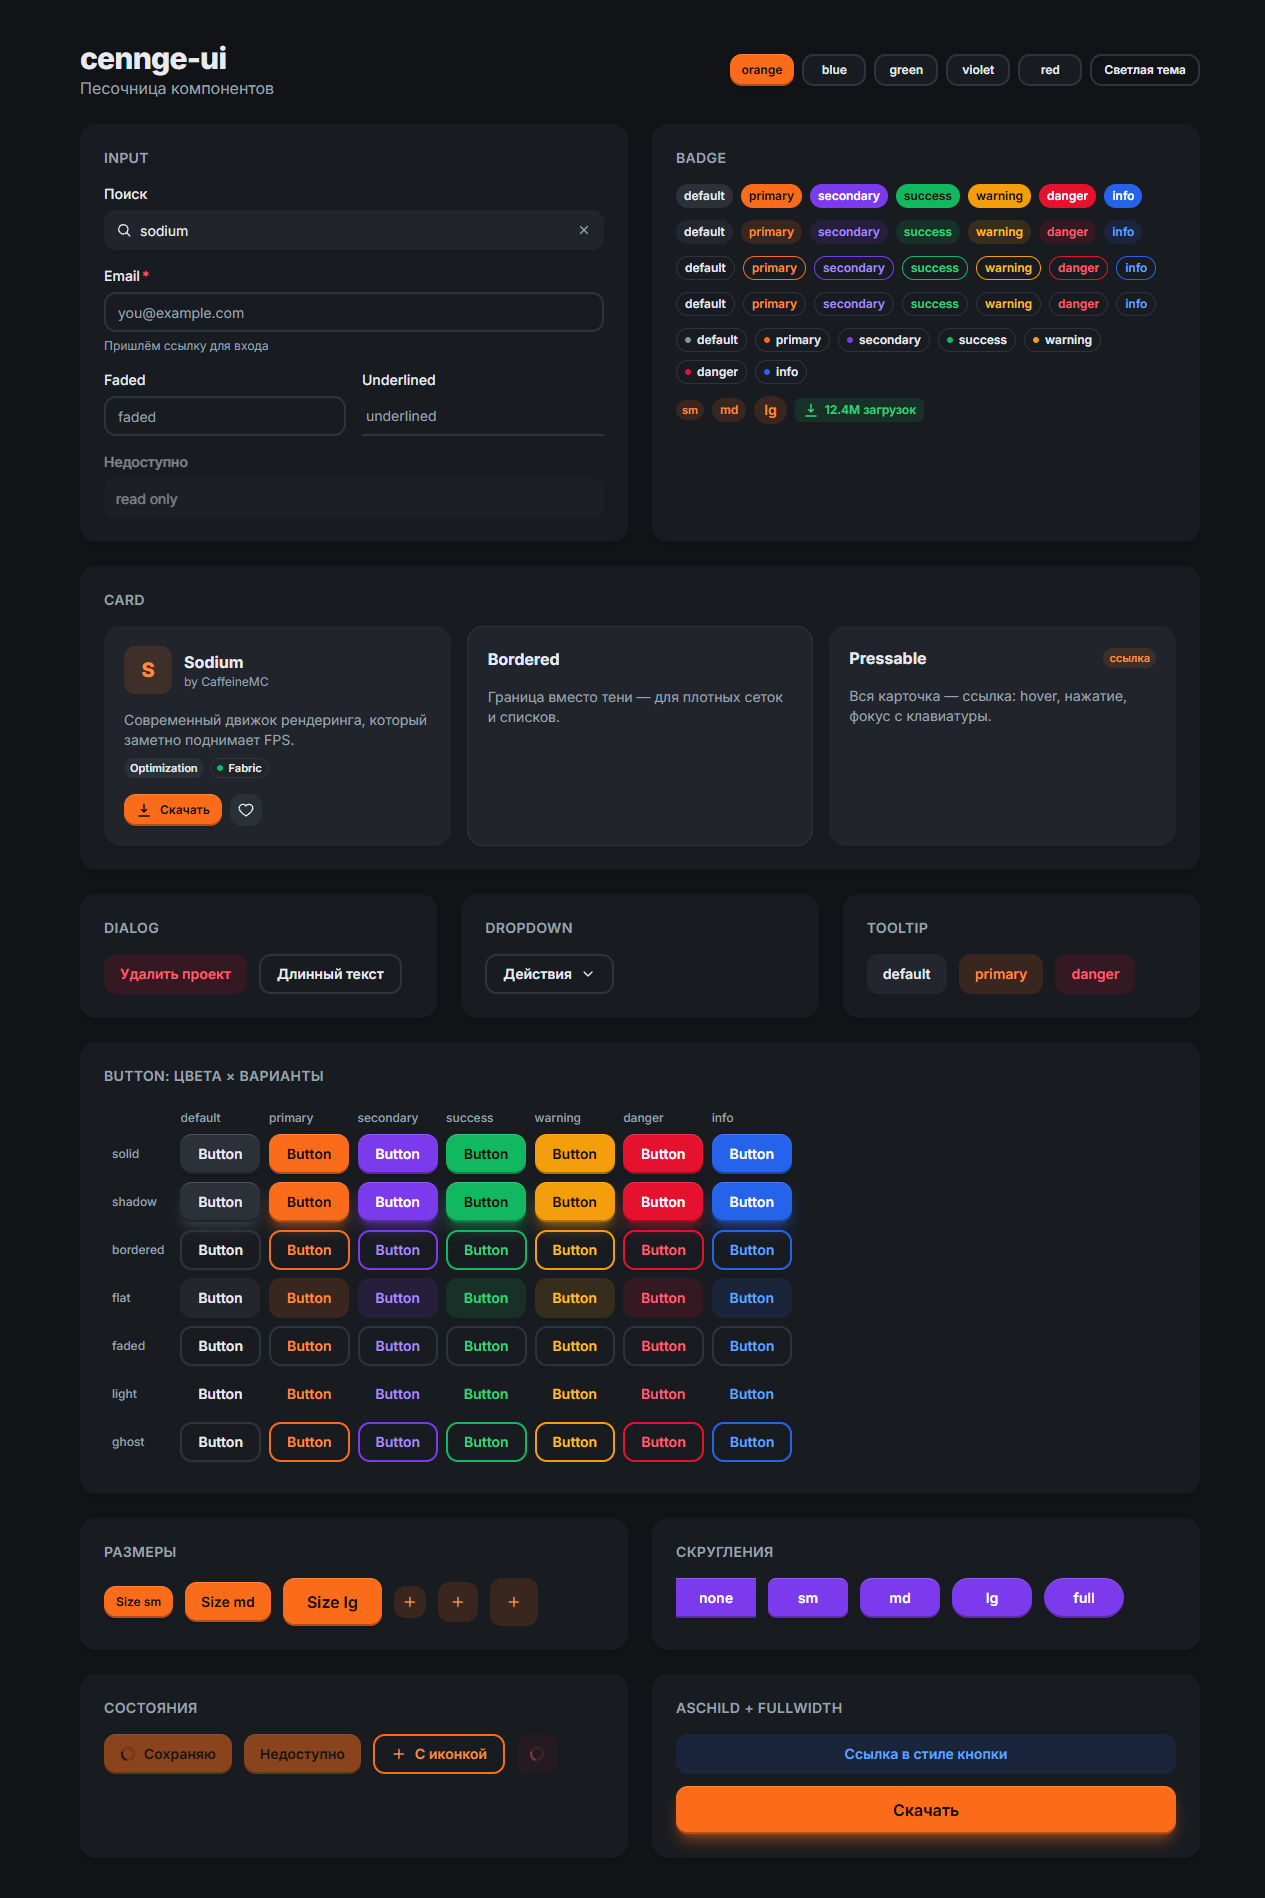
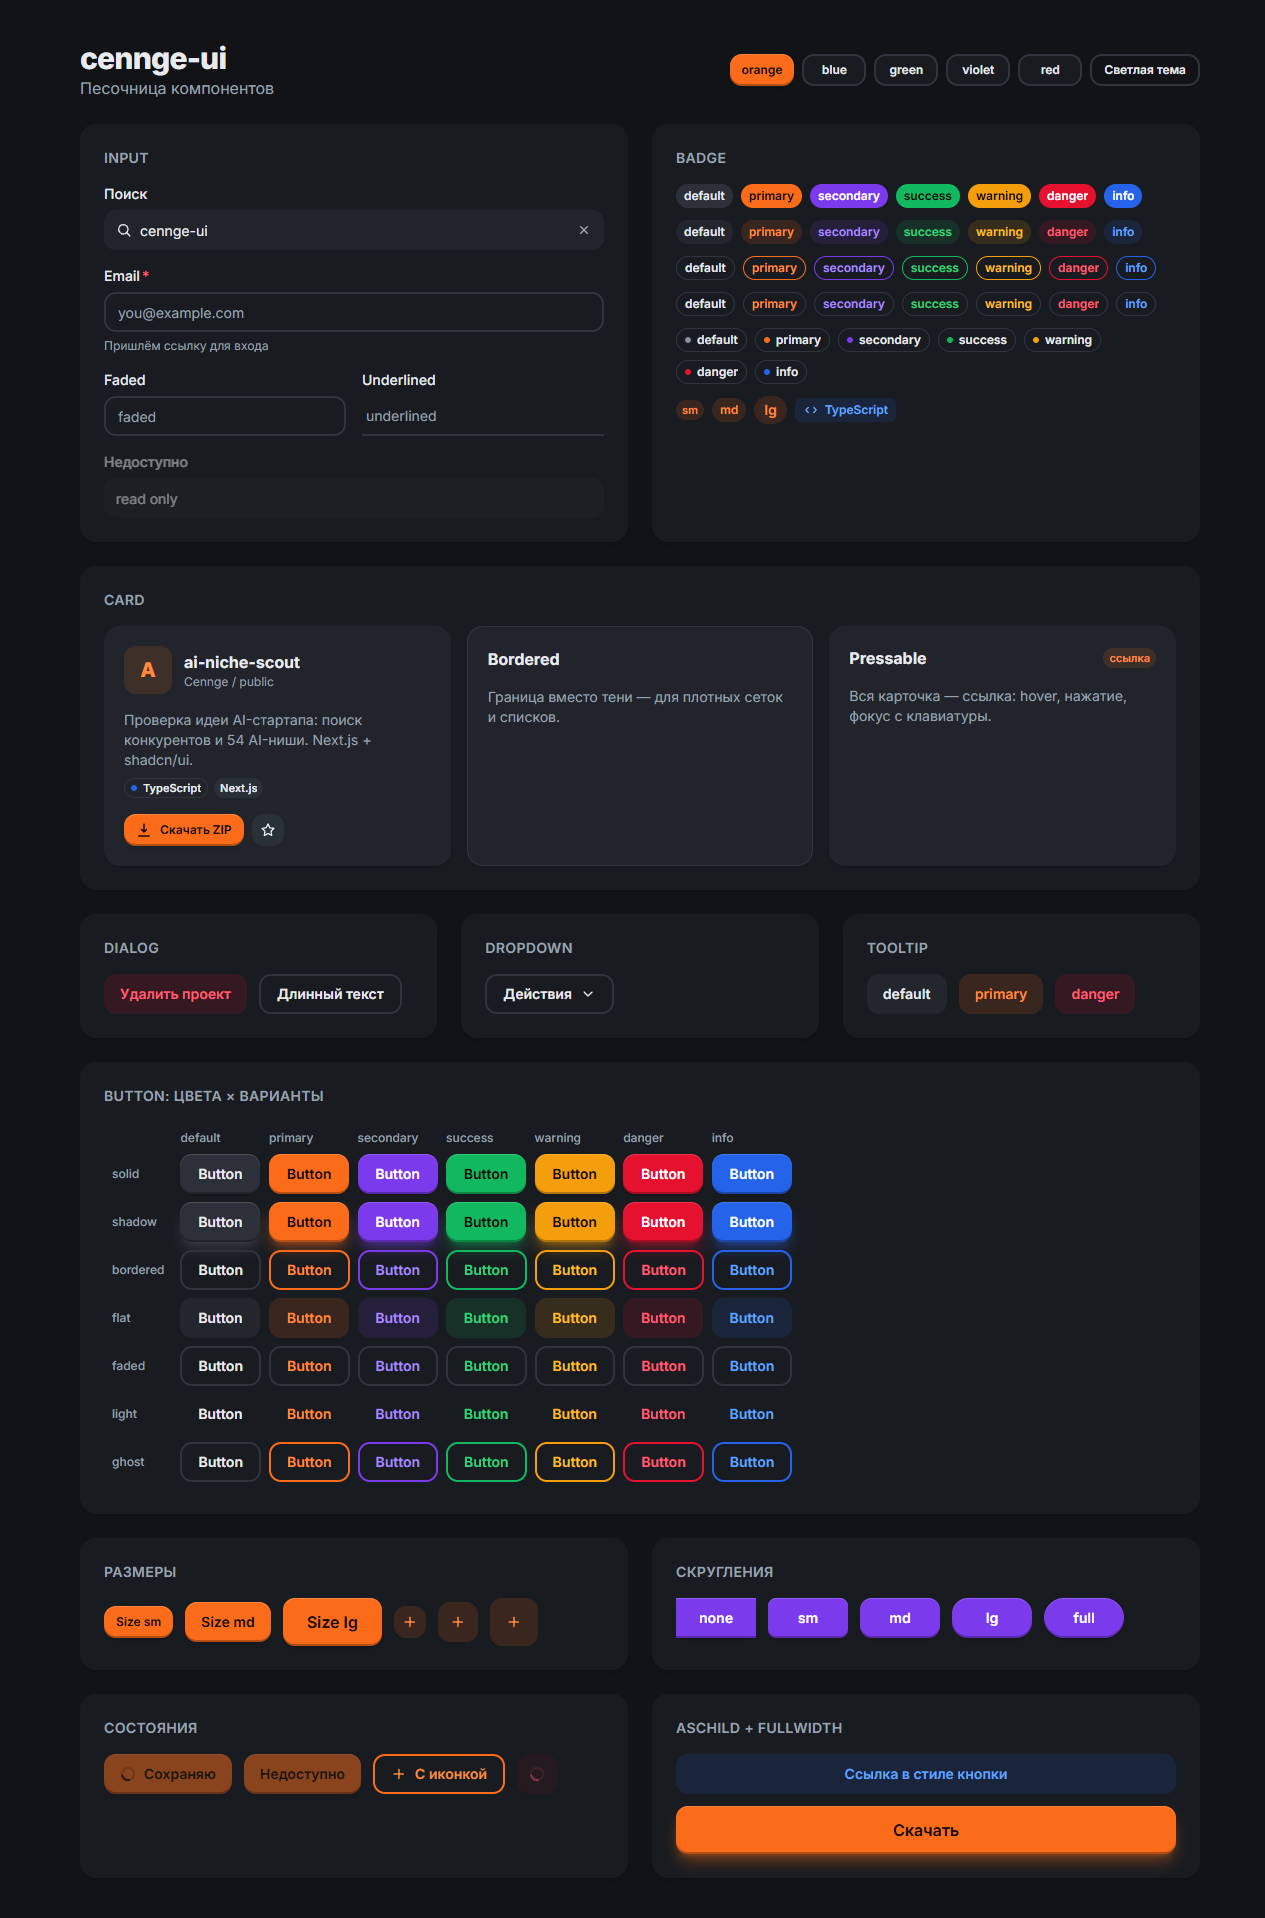
docs: use own GitHub repositories in examples

diff --git a/playground/ComponentsDemo.tsx b/playground/ComponentsDemo.tsx
@@ -51,7 +51,8 @@ const icons = {
   copy: "M8 8h12v12H8zM4 16V4h12",
   trash: "M3 6h18M8 6V4h8v2M6 6l1 14h10l1-14",
   download: "M12 3v12m0 0l-4-4m4 4l4-4M4 21h16",
-  heart: "M12 21s-7-4.5-9.5-9A5.5 5.5 0 0 1 12 6a5.5 5.5 0 0 1 9.5 6c-2.5 4.5-9.5 9-9.5 9z",
+  star: "M12 3l2.8 5.7 6.2.9-4.5 4.4 1.1 6.2L12 17.3 6.4 20.2l1.1-6.2L3 9.6l6.2-.9z",
+  code: "M8 8l-4 4 4 4M16 8l4 4-4 4",
 };
 
 export function ComponentsDemo() {
@@ -65,10 +66,10 @@ export function ComponentsDemo() {
           <div className="flex flex-col gap-4">
             <Input
               label="Поиск"
-              placeholder="Моды, ресурспаки, шейдеры…"
+              placeholder="Репозитории, issues, пользователи…"
               startContent={<Icon d={icons.search} />}
               isClearable
-              defaultValue="sodium"
+              defaultValue="cennge-ui"
             />
             <Input
               label="Email"
@@ -110,8 +111,8 @@ export function ComponentsDemo() {
               <Badge size="lg" color="primary">
                 lg
               </Badge>
-              <Badge color="success" variant="flat" radius="sm" startContent={<Icon d={icons.download} />}>
-                12.4M загрузок
+              <Badge color="info" variant="flat" radius="sm" startContent={<Icon d={icons.code} />}>
+                TypeScript
               </Badge>
             </div>
           </div>
@@ -123,29 +124,36 @@ export function ComponentsDemo() {
           <Card>
             <CardHeader>
               <div className="flex size-12 items-center justify-center rounded-medium bg-primary-bg text-xl font-black text-primary-text">
-                S
+                A
               </div>
               <div className="min-w-0">
-                <h3 className="truncate font-bold">Sodium</h3>
-                <p className="truncate text-xs text-muted">by CaffeineMC</p>
+                <h3 className="truncate font-bold">ai-niche-scout</h3>
+                <p className="truncate text-xs text-muted">Cennge / public</p>
               </div>
             </CardHeader>
             <CardBody>
-              <p className="text-sm text-muted">Современный движок рендеринга, который заметно поднимает FPS.</p>
+              <p className="text-sm text-muted">
+                Проверка идеи AI-стартапа: поиск конкурентов и 54 AI-ниши. Next.js + shadcn/ui.
+              </p>
               <div className="flex flex-wrap gap-1.5">
-                <Badge size="sm">Optimization</Badge>
-                <Badge size="sm" color="success" variant="dot">
-                  Fabric
+                <Badge size="sm" color="info" variant="dot">
+                  TypeScript
                 </Badge>
+                <Badge size="sm">Next.js</Badge>
               </div>
             </CardBody>
             <CardFooter>
-              <Button color="primary" size="sm" startContent={<Icon d={icons.download} />}>
-                Скачать
+              <Button
+                asChild
+                color="primary"
+                size="sm"
+                startContent={<Icon d={icons.download} />}
+              >
+                <a href="https://github.com/Cennge/ai-niche-scout/archive/refs/heads/main.zip">Скачать ZIP</a>
               </Button>
-              <Tooltip content="В избранное">
-                <Button size="sm" variant="flat" isIconOnly aria-label="В избранное">
-                  <Icon d={icons.heart} />
+              <Tooltip content="Поставить звезду">
+                <Button size="sm" variant="flat" isIconOnly aria-label="Поставить звезду">
+                  <Icon d={icons.star} />
                 </Button>
               </Tooltip>
             </CardFooter>

diff --git a/README.md b/README.md
@@ -114,15 +114,15 @@ import {
 
 // Card — raised, bordered, flat; pressable as a link
 <Card asChild isPressable>
-  <a href="/project/sodium">
-    <CardHeader>Sodium</CardHeader>
-    <CardBody>Rendering engine</CardBody>
+  <a href="https://github.com/Cennge/ai-niche-scout">
+    <CardHeader>ai-niche-scout</CardHeader>
+    <CardBody>Validate an AI startup idea: competitors and 54 AI niches</CardBody>
   </a>
 </Card>
 
 // Tooltip — works with or without the provider
-<Tooltip content="Add to favourites" showArrow>
-  <Button isIconOnly aria-label="Favourite"><HeartIcon /></Button>
+<Tooltip content="Star this repository" showArrow>
+  <Button isIconOnly aria-label="Star"><StarIcon /></Button>
 </Tooltip>
 
 // Dialog — long content scrolls inside DialogBody
